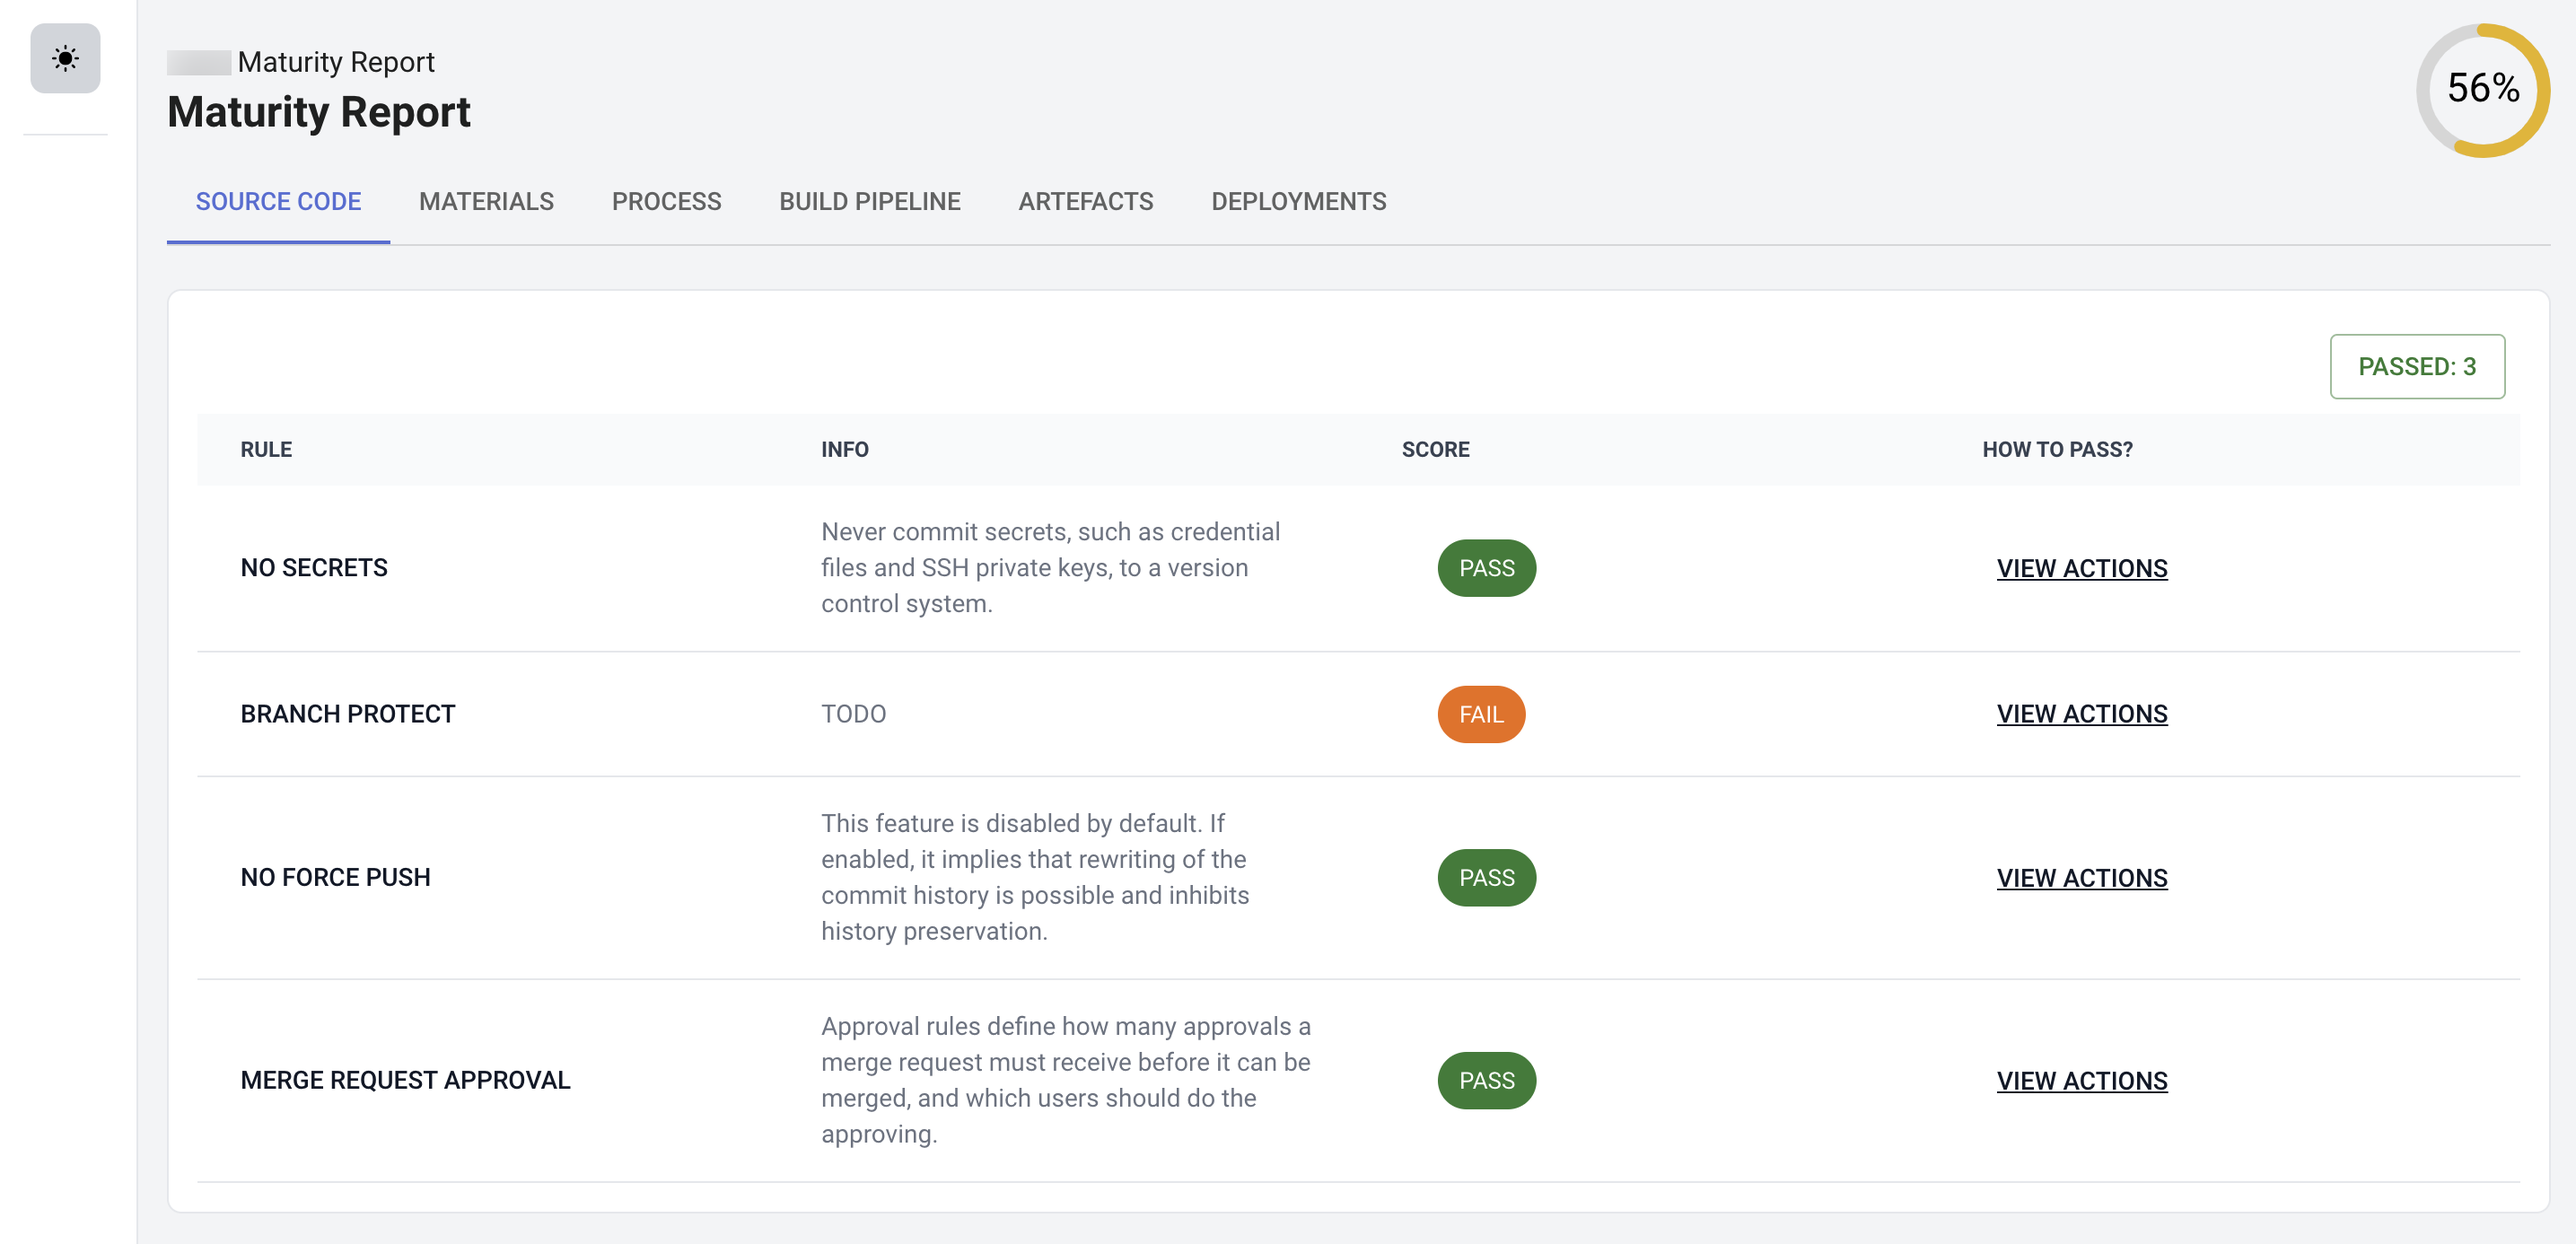
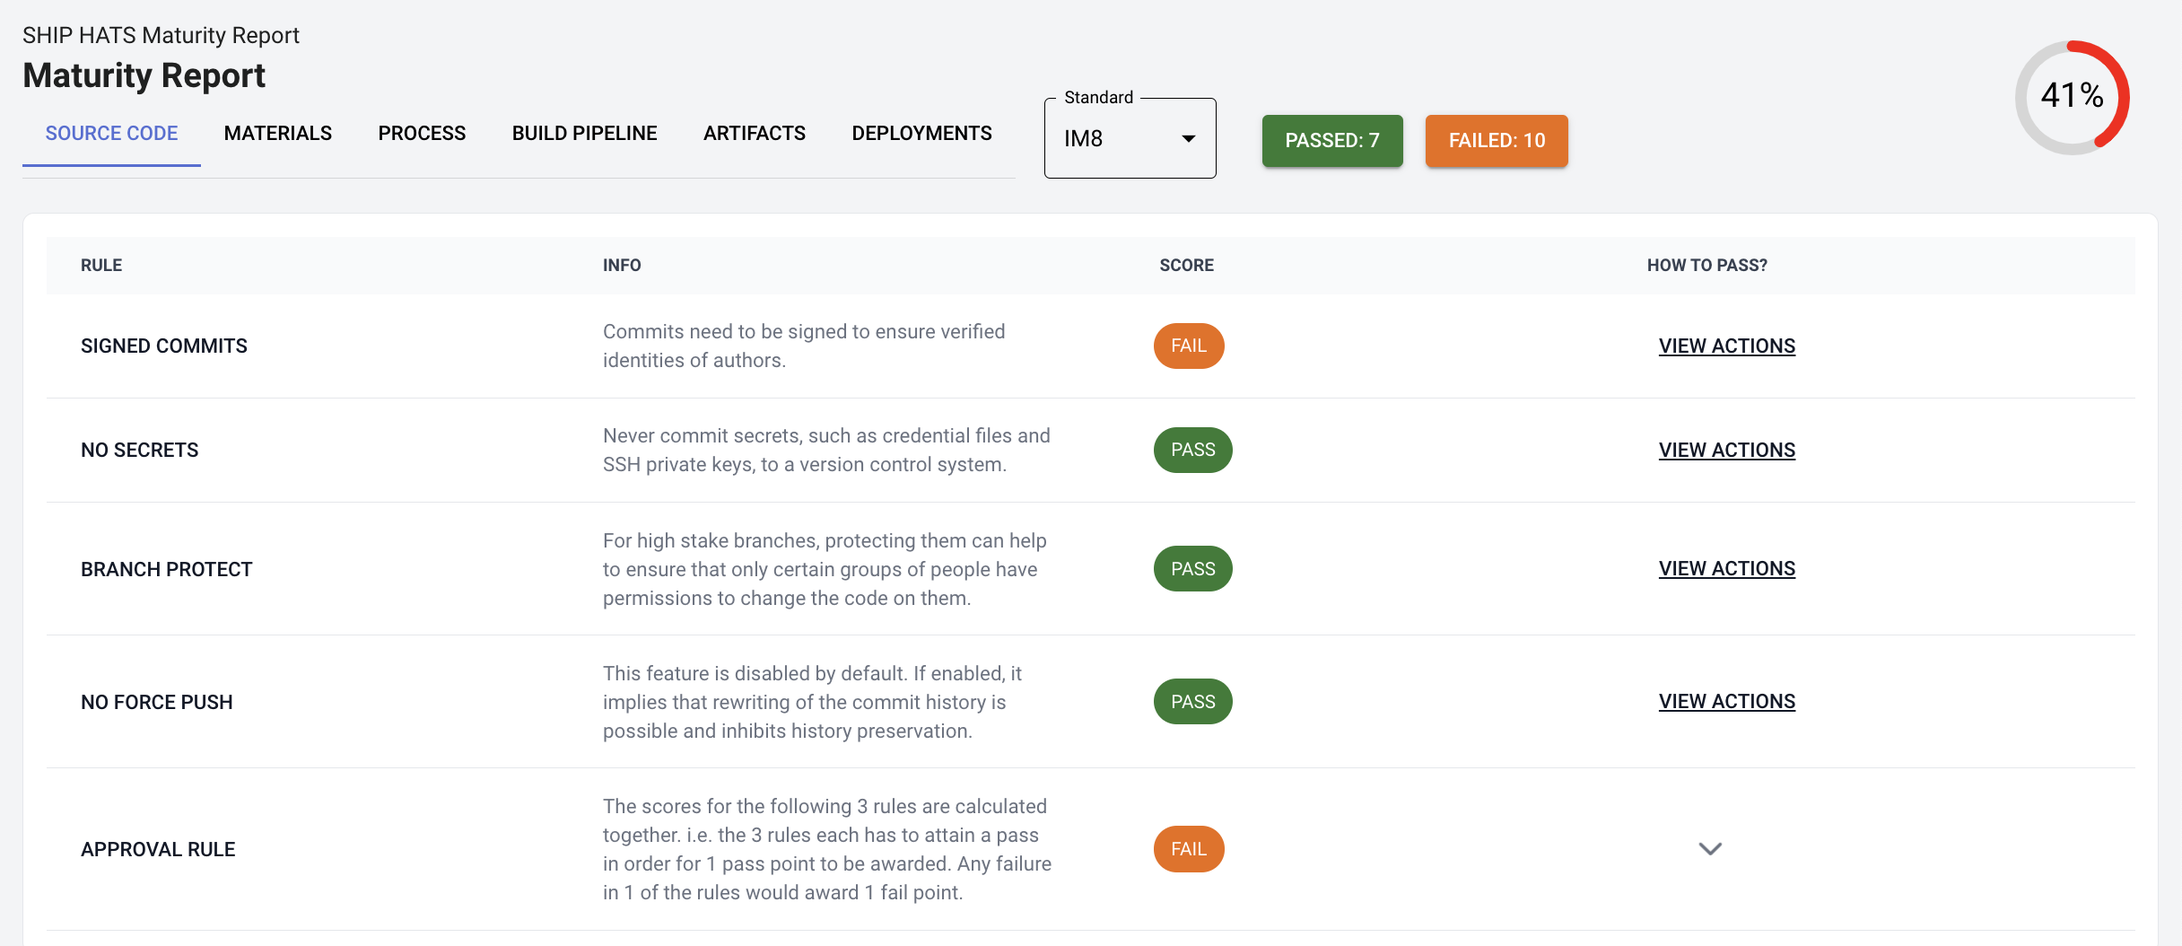
June release

diff --git a/snippets/slsa-snippet.md b/snippets/slsa-snippet.md
@@ -99,6 +99,51 @@ After the SBOM files have been generated, you can sign and verify as a software 
     -   In your verifying job, include the  `SBOM_PREDICATE_TYPE`  variable. For blob verification, the  `SIGNED_SBOM_FILE`  variable is also needed. This will tell the job to verify the SBOM for the software artifact
     -   In your verifying job, you can optionally include the  `VERIFY_SBOM_OPTS`  variable to customise the arguments when verifying the SBOM.
 
+
+## SLSA and Compliance Framework
+
+SLSA, SBOM, and Attestation mechanisms have been integrated with the [Compliance Framework v1.0.3](https://sgts.gitlab-dedicated.com/wog/ship-hats-compliance) and applied to [E2E templates](https://sgts.gitlab-dedicated.com/wog/gvt/ship/e2e-templates).
+
+With the Compliance Framework v1.0.3 and E2E templates, the SBOM signing and verification will be automatically included in your pipeline. However, if you are using only Compliance template, you must complete the following steps:
+1. Generate the attestation in your build job 
+1. Pass the following variables:
+    - `ATTESTATION_PREDICATE_TYPE`
+    <!--: This variable is required if you want to verify the gitlab attestation. The gitlab attestation follows the "slsaprovenance" predicate type.-->
+    - `VERIFY_ATTESTATION_OPTS` 
+    <!--: This variable is for including extra arguments when verifying the attestation. "--check-claims=false" is required for gitlab attestation.  -->
+    - `SIGNED_ATTESTATION_FILE` 
+ 
+After the above conditions are met, the attestation signing and verification will be automatically included in your pipeline. **[[Read more here](https://sgts.gitlab-dedicated.com/wog/ship-hats-compliance)]**
+
+<!--
+
+### Templates
+
+**E2E Examples** 
+- Docker Image CI App v1.0.2
+- Docker Single Service App
+- Docker Multi Service App
+- Nodets Webapp 
+
+**SHIP-HATS Templates** 
+- Blob-Signing 
+- Container-Signing 
+
+-->
+
+### E2E Examples
+
+- [Docker Image CI App](https://sgts.gitlab-dedicated.com/wog/gvt/ship/e2e-templates/examples/docker-image-ci-app)  
+- [Docker Single Service App](https://sgts.gitlab-dedicated.com/wog/gvt/ship/e2e-templates/examples/docker-single-service-app)
+- [Docker Multi Service App](https://sgts.gitlab-dedicated.com/wog/gvt/ship/e2e-templates/examples/docker-multi-services-app)
+- [Nodets Webapp](https://sgts.gitlab-dedicated.com/wog/gvt/ship/e2e-templates/examples/nodets-webapp) 
+
+### Examples: SHIP-HATS Templates
+
+- [Blob-Signing](https://sgts.gitlab-dedicated.com/wog/gvt/ship/ship-hats-templates/-/blob/main/gitlab-ci/Blob-Signing.yml) | [Documentation](https://sgts.gitlab-dedicated.com/wog/gvt/ship/ship-hats-templates/-/tree/main/gitlab-ci#example-blob-signing) 
+
+- [Container-Signing Example](https://sgts.gitlab-dedicated.com/wog/gvt/ship/ship-hats-templates/-/blob/main/gitlab-ci/Container-Signing.yml) | [Documentation](https://sgts.gitlab-dedicated.com/wog/gvt/ship/ship-hats-templates/-/tree/main/gitlab-ci#example-container-signing)
+
 ## Additional Resources
 
 -   SLSA Website:  [https://slsa.dev/](https://slsa.dev/)

diff --git a/hivemind-chatbot.md b/hivemind-chatbot.md
@@ -1,0 +1,56 @@
+# Hivemind Chatbot
+
+## About Hivemind Chatbot
+
+The Hivemind chatbot was launched in April 2023 to help answer queries on SHIP-HATS. 
+The Hivemind chatbot is based on ChatGPT and brings the power of ChatGPT to internal knowledge management. 
+
+Learn more on [Integrating ChatGPT with internal knowledge base and question-answer platform](https://medium.com/singapore-gds/integrating-chatgpt-with-internal-knowledge-base-and-question-answer-platform-36a3283d6334) via our Medium article.
+
+## Using Hivemind chatbot
+
+To use the Hivemind chatbot:
+1. Send a private message to **@HivemindChatBot**.
+1. Select **/Start**.
+1. Use one of the commands below to ask your query:
+
+    |Command|Description|Example|
+    |---|---|---|
+    `/ask` |Ask queries related to SGTS, SHIP-HATS, SEED, TechPass, etc.|/ask does SHIP-HATS GitLab support service account not tied to a human user?|
+    `/askGL`  | Ask queries related to using Gitlab v15|/askGL give me an example of multi-project pipeline triggers|
+    `/askGPT`  |Ask generic queries. Please note that it's a limited integration with ChatGPT|/askGPT I need a simple live coding challenge that is not commonly used for a senior developer role
+    `/post`  | Get the bot to post a question on Hivemind| /post 
+    `/help` | Show help|N/A
+
+1. Click :thumbsup:	or  :thumbsdown: to indicate if your answer was helpful. 
+
+
+?> **Note:** All interactions are recorded for analytics purpose.
+
+<!--## Commands
+Use the following commands to ask your queries:-->
+
+
+## Rating the answers
+
+Currently, chatbot is undergoing training on our knowledge base through fine-tuning to better answer your queries. To do this, we require more ratings of :thumbsup:	or  :thumbsdown: to improve the bots' performance. When you use the bot, please remember to rate the answer given!
+
+## Example
+
+![](./images/hivemind-ask.png ':size=70%')
+
+<!--![](./images/hivemind-askgl.png)-->
+
+## Additional Resources
+
+- [Integrating ChatGPT with internal knowledge base and question-answer platform](https://medium.com/singapore-gds/integrating-chatgpt-with-internal-knowledge-base-and-question-answer-platform-36a3283d6334)
+
+
+<!--
+you can use the following resources:
+
+Introducing @HivemindChatBot , We’re working with the Hivemind team to test out a GPT-powered Telegram bot that will answer specific SGTS queries. This bot should be your first touchpoint for queries. Get started by sending a private message to @HivemindChatBot
+
+That sounds like an exciting project! You can get started by sending a private message to @HivemindChatBot to test out the GPT-powered Telegram bot for SGTS queries. However, for more complicated queries, you can still use the group chat. Good luck with your project!
+
+-->

diff --git a/metrics.md b/metrics.md
@@ -4,12 +4,12 @@
 
 You can now use the `.generate-maturity-report` template to generate a [report](https://sgts.gitlab-dedicated.com/wog/gvt/ship/ship-hats-templates/-/tree/main/templates#file-gitlab-ci-generate-maturity-reportyml) to measure DevSecOps maturity from users' CI/CD pipelines for a project's default branch. The report is generated as an HTML job artefact for viewing. 
 
-In addition, we are looking for agencies to be part of this pilot to review features of the report. To take part in pilot, please [reach out to us](https://go.gov.sg/she) to be part of the pilot.
+?> We are looking for agencies to be part of this pilot to review features of the report. To take part in pilot, please [reach out to us](https://go.gov.sg/she) to be part of the pilot.
 
 ### Benefits 
 
 - Ability to review compliance with IM8 DevSecOps policies
-- Greater insight into the adoption of best practices with standards, such as CNCF
+- Greater insight into the adoption of best practices with standards, such as IM8, CNCF, SLSA, OWASP
 - Potentially using the report to support RFIs from auditors
 
 ### Example
@@ -18,6 +18,23 @@ Following image shows an example of DevSecOps Maturity Report:
 
 ![DevSecOps Maturity Report](./images/devsecops-maturity-report.png)
 
-<!--### Interpreting the report
+### Interpreting the report
 
--->
+You can use the following features to interpret the report:
+
+- **View Rules and details based on tabs:** Switch to the tab for which you want to view the Rules and Scores. View [Maturity Report Measuring Metrics](https://sgts.gitlab-dedicated.com/wog/gvt/ship/devsecops-maturity-report/maturity-report/-/blob/main/README.md) for details on each tab and rules included based on the selected standard.
+
+    ![](./images/devsecops-maturity-report-tabs.png)
+
+- **View Reports based on Standard:** Choose one of the available standards (IM8, CNCF, SLSA, OWASP) to view the report for the selected standard or **All Standards**.
+
+    ![](./images/devsecops-maturity-report-filter.png)
+
+- **Take Action for failed score:** Click **View Actions** to view the suggested **Action Required** to pass. You can complete the suggested actions > run the pipeline > generate the report to verify if the Score changed to **PASS**.
+
+    ![](./images/devsecops-maturity-report-click-action.png)
+
+<!--![](./images/devsecops-maturity-report-view-action.png ':size=30%')-->
+
+
+<!--Variable to be set in .POST: $PROJECT_TOKEN-->

diff --git a/snippets/compliance-framework-snippet.md b/snippets/compliance-framework-snippet.md
@@ -31,11 +31,11 @@ Using SHIP-HATS compliance templates, you can assure that your pipeline includes
 
 ![Sample Compliance Framework](./images/sample-compliance-framework.png)
 
-<!--
 
-## GitLab Infrastructure as Code (IaC) Scanning
 
-IaC SAST scanning has now been integrated with the Compliance Framework. 
+## GitLab Infrastructure as Code Scanning
+
+GitLab Infrastructure as Code (IaC) SAST scanning has now been integrated with the Compliance Framework v1.0.3. 
 
 To use this feature, you must **get the latest version v1.0.3** of the [SHIP-HATS Compliance Template](https://sgts.gitlab-dedicated.com/wog/ship-hats-compliance/-/blob/main/README).
 
@@ -47,7 +47,9 @@ For more information, refer to following resources:
 - [IaC SAST scanning - Choice of tools](https://sgts.gitlab-dedicated.com/wog/ship-hats-compliance/-/tree/main#choice-of-tools)
 - [GitLab Infrastructure as Code (IaC) Scanning](https://docs.gitlab.com/ee/user/application_security/iac_scanning/)
 
--->
+## SLSA
+
+SLSA, SBOM, and Attestation mechanisms have been integrated with the [Compliance Framework v1.0.3](https://sgts.gitlab-dedicated.com/wog/ship-hats-compliance) and applied to [E2E templates](https://sgts.gitlab-dedicated.com/wog/gvt/ship/e2e-templates). **[[Learn more](https://docs.developer.tech.gov.sg/docs/ship-hats-getting-started/slsa?id=slsa-and-compliance-framework)]**
 
 ## Additional Resources
 

diff --git a/_sidebar.md b/_sidebar.md
@@ -12,6 +12,7 @@
     - [Sample Pipeline](sample-pipeline)  
     - [Pipeline COE](./pipeline-coe.md)
     - [SLSA](./slsa.md)
+    - [Hivemind Chatbot](./hivemind-chatbot.md)
     - [Contribute](./contribute.md)
 - **Training**
   - [Learning Events](learning-events)
@@ -19,7 +20,7 @@
 - **Architecture**
   - [Architecture](architecture)
   - [Runners](runners)
-- **Onboard to SHIP-HATS** 
+- **Subscribe & Onboard** 
   - [Subscription](subscription)
   - [Onboarding](onboard-to-ship-hats)
   - [Step 0: Pre-onboarding](pre-onboarding)
